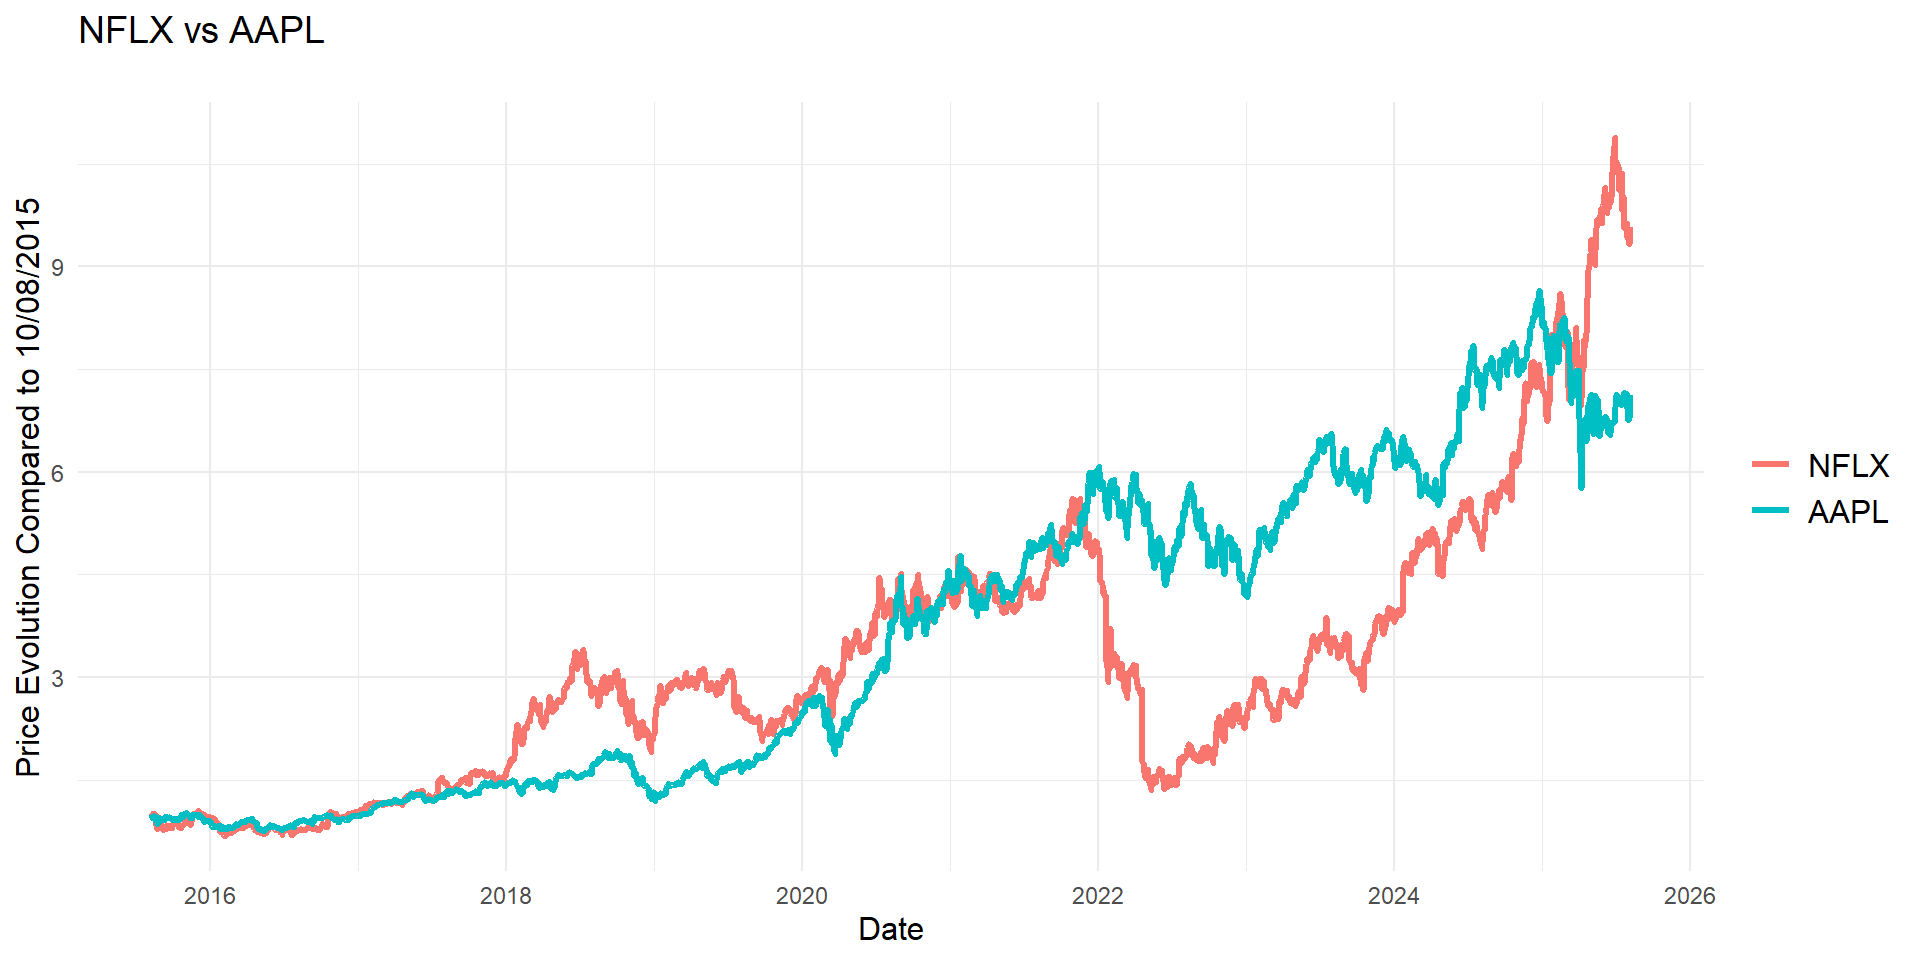
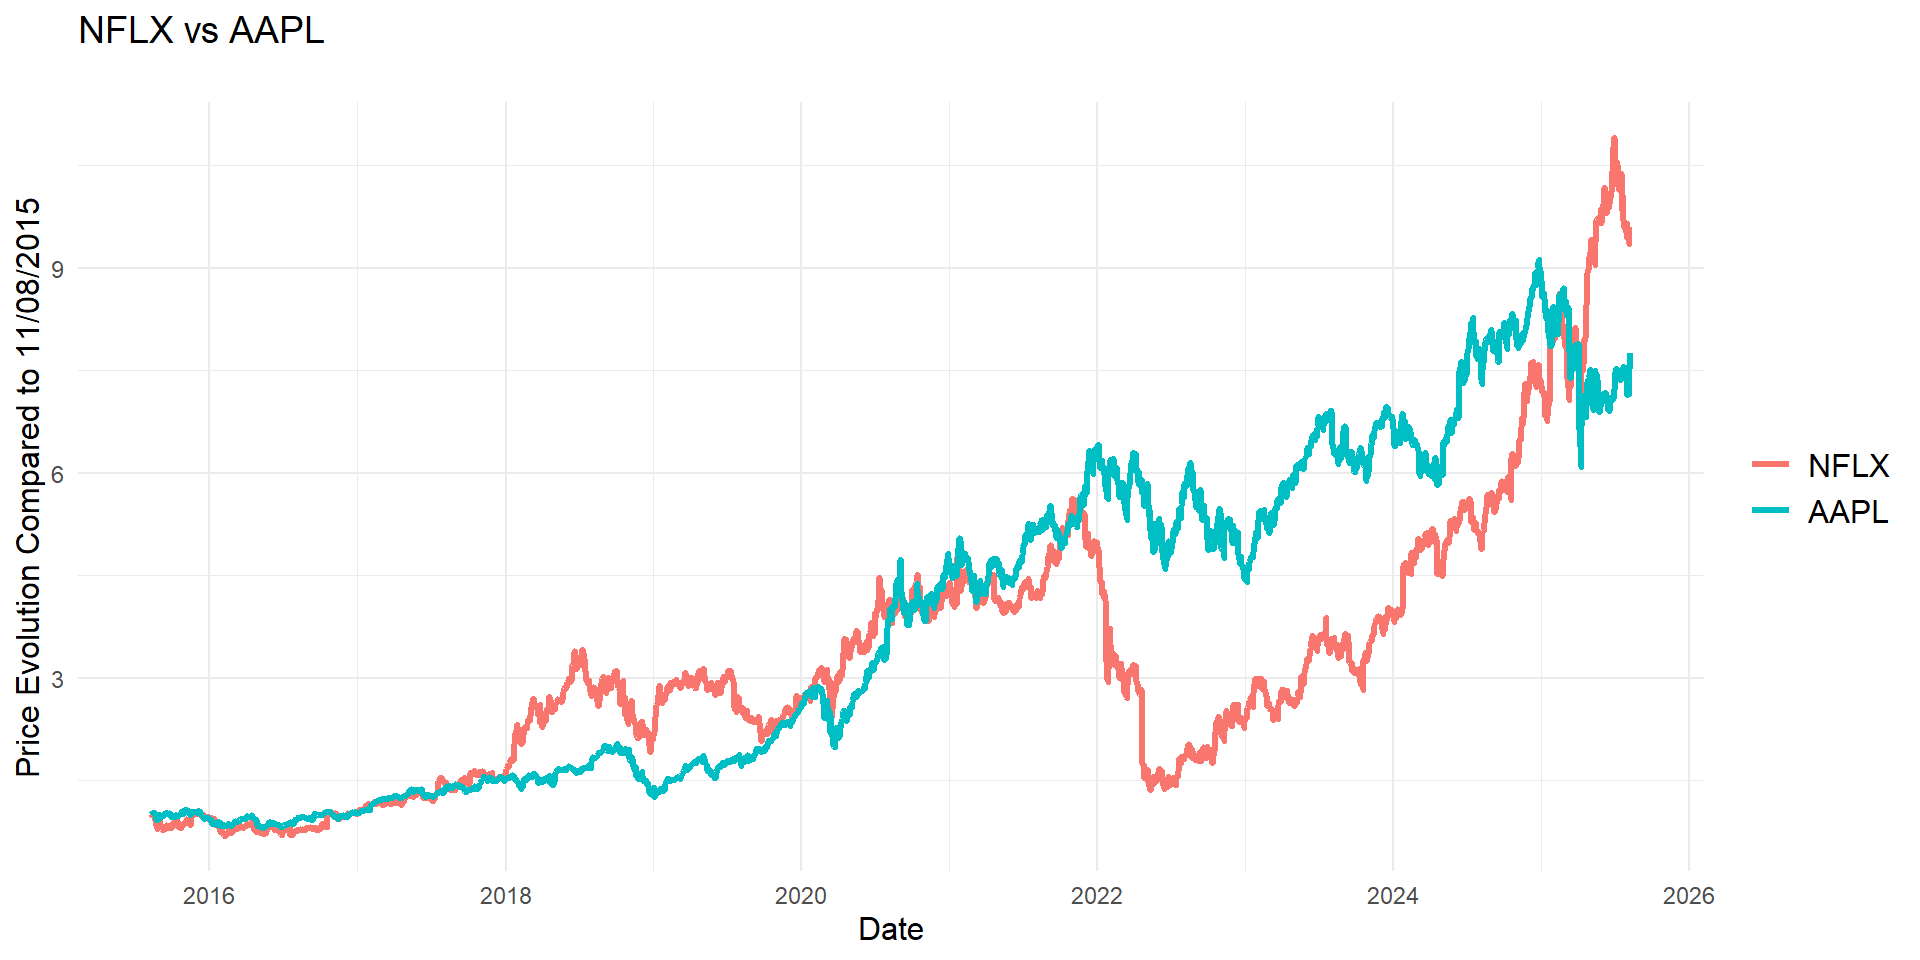
include last exercise

diff --git a/iscal/statistics1/1_intro.html b/iscal/statistics1/1_intro.html
@@ -171,7 +171,7 @@ Paulo Fagandini
 <section id="bibliography" class="slide level2">
 <h2>Bibliography</h2>
 <h3 id="topic-1">Topic 1:</h3>
-<p><span class="emoji" data-emoji="book">📖</span> A Practical Introduction to Index Numbers. 1<sup>st</sup> Ed 2015. Jeff Ralph, Rob O’Neill, Joe Winton.</p>
+<p><span class="emoji" data-emoji="book">📖</span> The making of index numbers. 1<sup>st</sup> Ed 1922. Irving Fisher. <span class="emoji" data-emoji="book">📖</span> A Practical Introduction to Index Numbers. 1<sup>st</sup> Ed 2015. Jeff Ralph, Rob O’Neill, Joe Winton.</p>
 <h3 id="topics-2-and-3">Topics 2 and 3:</h3>
 <p><span class="emoji" data-emoji="book">📖</span> Statistics for Business and Economics Global Edition. 10<sup>th</sup> Ed 2022. Paul Newbold, William Carlson, and Betty Thorne.</p>
 <p><br>
@@ -279,7 +279,7 @@ Paulo Fagandini
 </tr>
 <tr class="odd">
 <td style="text-align: right;">2025</td>
-<td style="text-align: right;">213.25</td>
+<td style="text-align: right;">220.03</td>
 </tr>
 </tbody>
 </table>
@@ -472,7 +472,7 @@ Paulo Fagandini
 <section id="motivation" class="slide level2">
 <h2>Motivation</h2>
 
-<img data-src="1_intro_files/figure-revealjs/unnamed-chunk-4-1.png" class="quarto-figure quarto-figure-center r-stretch" width="960"><p>Which stock would you have purchased in 2015-08-10?</p>
+<img data-src="1_intro_files/figure-revealjs/unnamed-chunk-4-1.png" class="quarto-figure quarto-figure-center r-stretch" width="960"><p>Which stock would you have purchased in 2015-08-11?</p>
 </section>
 <section id="motivation-1" class="slide level2">
 <h2>Motivation</h2>
@@ -521,12 +521,12 @@ Paulo Fagandini
 <section id="motivation-4" class="slide level2">
 <h2>Motivation</h2>
 
-<img data-src="1_intro_files/figure-revealjs/unnamed-chunk-5-1.png" class="quarto-figure quarto-figure-center r-stretch" width="960"><p>Now we have a much clear picture. We can compare their evolution starting in 2015-08-10.</p>
+<img data-src="1_intro_files/figure-revealjs/unnamed-chunk-5-1.png" class="quarto-figure quarto-figure-center r-stretch" width="960"><p>Now we have a much clear picture. We can compare their evolution starting in 2015-08-11.</p>
 <p>What can you read from the plot?</p>
 </section>
 <section id="motivation-5" class="slide level2">
 <h2>Motivation</h2>
-<p>Note that for 2015-08-10, we would have, for A and B:</p>
+<p>Note that for 2015-08-11, we would have, for A and B:</p>
 <p><span class="math display">\[1+\frac{a_t-a_t}{a_t}=1\quad\text{and}\quad 1+\frac{b_t-b_t}{b_t}=1\]</span></p>
 <p>We just built and index number!</p>
 <p>By convention though, instead of using 1 for the reference date, we will use 100 (as in 100%) for the reference day (we will put a name to this in a few moments).</p>
@@ -553,7 +553,7 @@ Paulo Fagandini
 </div>
 <p><br>
 </p>
-<p>In our previous example, the base day would have been 2015-08-10. Note that in the base period <span class="math display">\[I_0=\frac{x_0}{x_0}\times 100 = 100\]</span></p>
+<p>In our previous example, the base day would have been 2015-08-11. Note that in the base period <span class="math display">\[I_0=\frac{x_0}{x_0}\times 100 = 100\]</span></p>
 </section>
 <section id="index-numbers-1" class="slide level2">
 <h2>Index Numbers</h2>
@@ -561,8 +561,8 @@ Paulo Fagandini
 <p>Also, an Index Number can have a fixed base or a moving base.</p>
 <div class="cell">
 <div class="cell-output-display">
-<div class="grViz html-widget html-fill-item" id="htmlwidget-07e137495322c88352e5" style="width:960px;height:480px;"></div>
-<script type="application/json" data-for="htmlwidget-07e137495322c88352e5">{"x":{"diagram":"\ndigraph TimeSeriesStructure {\n  graph [layout = dot, rankdir = TB]\n\n  node [shape = box, style = filled, fillcolor = lightgray, fontname = Helvetica]\n\n  Index [label = \"Index\"]\n  UnderlyingVariable [label = \"Underlying Variable\"]\n  Base [label = \"Base\"]\n  Dimension [label = \"Dimension\"]\n\n  Simple [label = \"Simple\"]\n  Composite [label = \"Composite\"]\n\n  Fixed [label = \"Fixed\"]\n  Rolling [label = \"Rolling\"]\n\n  Chronological [label = \"Chronological\"]\n  Geographical [label = \"Geographical\"]\n\n  Index -> UnderlyingVariable\n  Index -> Base\n  Index -> Dimension\n\n  UnderlyingVariable -> Simple\n  UnderlyingVariable -> Composite\n\n  Base -> Fixed\n  Base -> Rolling\n\n  Dimension -> Chronological\n  Dimension -> Geographical\n}\n","config":{"engine":"dot","options":null}},"evals":[],"jsHooks":[]}</script>
+<div class="grViz html-widget html-fill-item" id="htmlwidget-ad89f0cf087934b1c594" style="width:960px;height:480px;"></div>
+<script type="application/json" data-for="htmlwidget-ad89f0cf087934b1c594">{"x":{"diagram":"\ndigraph TimeSeriesStructure {\n  graph [layout = dot, rankdir = TB]\n\n  node [shape = box, style = filled, fillcolor = lightgray, fontname = Helvetica]\n\n  Index [label = \"Index\"]\n  UnderlyingVariable [label = \"Underlying Variable\"]\n  Base [label = \"Base\"]\n  Dimension [label = \"Dimension\"]\n\n  Simple [label = \"Simple\"]\n  Composite [label = \"Composite\"]\n\n  Fixed [label = \"Fixed\"]\n  Rolling [label = \"Rolling\"]\n\n  Chronological [label = \"Chronological\"]\n  Geographical [label = \"Geographical\"]\n\n  Index -> UnderlyingVariable\n  Index -> Base\n  Index -> Dimension\n\n  UnderlyingVariable -> Simple\n  UnderlyingVariable -> Composite\n\n  Base -> Fixed\n  Base -> Rolling\n\n  Dimension -> Chronological\n  Dimension -> Geographical\n}\n","config":{"engine":"dot","options":null}},"evals":[],"jsHooks":[]}</script>
 </div>
 </div>
 </section>
@@ -967,6 +967,40 @@ Table&nbsp;1: Changing Base
 <blockquote>
 <p>New information? Yes! For example, without any computation we know that the price in 2025 was 30% larger than in 2020, and 5.4% larger than in 2022</p>
 </blockquote>
+</section>
+<section id="tests-for-good-simple-index-numbers" class="slide level2">
+<h2>Tests for good Simple Index Numbers</h2>
+<p>We can test the properties for Simple Index Numbers. These represent desirable properties for good index numbers.</p>
+<ol type="1">
+<li class="fragment"><strong>Identity test:</strong> If the variable in the current period is the same as in the base period, the index should be 1 (or 100). Of course this implies <span class="math display">\[I_{0|0}=1\]</span>.</li>
+<li class="fragment"><strong>Proportionality test:</strong> If the variable increases by <span class="math inline">\(k\)</span>, the index should increase by <span class="math inline">\(k\)</span>. <span class="math display">\[x_t=kx_0\ \Rightarrow\ i_{t|0}=k\]</span></li>
+</ol>
+</section>
+<section id="factor-reversal" class="slide level2">
+<h2>Tests for good Simple Index Numbers</h2>
+<ol start="3" type="1">
+<li class="fragment"><strong>Time Reversal test:</strong> If you exchange the base between two periods, then the index in one base, should be the inverse of the other: <span class="math display">\[i_{t|0}=\frac{1}{i{0|t}}\ \Leftrightarrow\ i_{t|0}i_{0|t}=1\]</span></li>
+<li class="fragment"><strong>Factor Reversal test:</strong> If we have two index numbers, one for variable <span class="math inline">\(x\)</span> and another for <span class="math inline">\(y\)</span>, then if <span class="math inline">\(z=x\times y\)</span> we should have <span class="math display">\[i_{t|0}^z=i_{t|0}^x\times i_{t|0}^y\]</span></li>
+</ol>
+</section>
+<section id="tests-for-good-simple-index-numbers-1" class="slide level2">
+<h2>Tests for good Simple Index Numbers</h2>
+<ol start="5" type="1">
+<li class="fragment"><p><strong>Circularity test:</strong> The index at <span class="math inline">\(t\)</span> base <span class="math inline">\(0\)</span> should be the product of all the link index numbers up to <span class="math inline">\(t\)</span>, <span class="math display">\[i_{t|0}=i_{t|t-1}\times i_{t-1|t-2}...i_{2|1}\times i_{1|0}\]</span> This formalizes the relationship between fixed base and chain index numbers.</p></li>
+<li class="fragment"><p><strong>Homogeneity test:</strong> If the variable, for every <span class="math inline">\(t\)</span> is multiplied by a constant, the index should not be affected.</p></li>
+</ol>
+</section>
+<section id="tests-for-good-simple-index-numbers-2" class="slide level2">
+<h2>Tests for good Simple Index Numbers</h2>
+<ol start="7" type="1">
+<li class="fragment"><strong>Well-definedness:</strong> The index number must be meaningful, and as prices and quantities usually are larger than zero, index numbers must be positive. Even further, a good index number should not take the value of <span class="math inline">\(\infty\)</span>.</li>
+</ol>
+<div class="fragment">
+<p>Ask yourself, what information are you getting here?</p>
+</div>
+<div class="fragment">
+<p>A value of <span class="math inline">\(0\)</span> might also be problematic, although it is not totally meaningless. The problem arises when you want to deal with chain index numbers, where a <span class="math inline">\(0\)</span> would indeterminate the rest of the chain. Also, you could never use as a base period, a period where the variable took the value of <span class="math inline">\(0\)</span>.</p>
+</div>
 </section></section>
 <section>
 <section id="index-numbers-composite-index-numbers" class="title-slide slide level1 center">
@@ -993,8 +1027,8 @@ Table&nbsp;1: Changing Base
 <p>This is a great opportunity to introduce another classification for our index numbers:</p>
 <div class="cell">
 <div class="cell-output-display">
-<div class="grViz html-widget html-fill-item" id="htmlwidget-b18c195cc4afac432d97" style="width:960px;height:480px;"></div>
-<script type="application/json" data-for="htmlwidget-b18c195cc4afac432d97">{"x":{"diagram":"\ndigraph flowchart {\n  graph [layout = dot, rankdir = TB]\n  node [shape = box, style = filled, fillcolor = lightgray, fontname = Helvetica]\n\n  A [label = \"Index\"]\n  B [label = <Price <i>P<\/i>>]\n  C [label = <Quantity <i>Q<\/i>>]\n  D [label = <Value <i>P<\/i> <i>&times;<\/i> <i>Q<\/i>>]\n\n  A -> B\n  A -> C\n  A -> D\n}\n","config":{"engine":"dot","options":null}},"evals":[],"jsHooks":[]}</script>
+<div class="grViz html-widget html-fill-item" id="htmlwidget-f1831dd121aa616e9565" style="width:960px;height:480px;"></div>
+<script type="application/json" data-for="htmlwidget-f1831dd121aa616e9565">{"x":{"diagram":"\ndigraph flowchart {\n  graph [layout = dot, rankdir = TB]\n  node [shape = box, style = filled, fillcolor = lightgray, fontname = Helvetica]\n\n  A [label = \"Index\"]\n  B [label = <Price <i>P<\/i>>]\n  C [label = <Quantity <i>Q<\/i>>]\n  D [label = <Value <i>P<\/i> <i>&times;<\/i> <i>Q<\/i>>]\n\n  A -> B\n  A -> C\n  A -> D\n}\n","config":{"engine":"dot","options":null}},"evals":[],"jsHooks":[]}</script>
 </div>
 </div>
 </section>
@@ -1517,6 +1551,160 @@ CPI<sub>link</sub>
 </div>
 <div class="fragment">
 <p><span class="math display">\[1.0103-1=\delta_w \quad \Rightarrow \quad \delta_w=0.0103= 1.03\%\]</span></p>
+</div>
+</section>
+<section id="summarizing" class="slide level2">
+<h2>Summarizing</h2>
+<p>Remember this relationship we saw before? <span class="math display">\[I^q_{t|b}=\frac{I^v_{t|b}}{I^p_{t|b}}\]</span></p>
+<p><strong>Real</strong> equals <strong>nominal</strong> over <strong>CPI</strong>.</p>
+<p>This, dividing by CPI a nominal quantity, is known as <em>to deflate</em> by the CPI.</p>
+</section>
+<section id="about-the-test-for-factor-reversal-for-composite-index-numbers" class="slide level2">
+<h2>About the Test for Factor Reversal for Composite Index Numbers</h2>
+<p>Note that neither Laspeyres nor Paasche pass the test for <strong>factor reversal</strong> (<a href="#factor-reversal">see here</a>), <span class="math display">\[VI_{t|0}\neq LPI_{t|0}\times LQI_{t|0}\quad\quad VI_{t|0}\neq PPI_{t|0}\times PQI_{t|0}\]</span></p>
+<p>But we can verify that: <span class="math display">\[LPI_{t|0}\times PQI_{t|0}=IV_{t|0} \quad \quad PPI_{t|0}\times LQI_{t|0}=IV_{t|0}\]</span></p>
+</section>
+<section id="about-the-test-for-factor-reversal-for-composite-index-numbers-1" class="slide level2">
+<h2>About the Test for Factor Reversal for Composite Index Numbers</h2>
+<p>(… continuation)</p>
+<p>Example (do the rest as homework): <span class="math display">\[LPI_{t|0}\times PQI_{t|0}=\frac{\sum_{k=1}^m p_t^kq_0^k}{\sum_{k=1}^m p_0^kq_0^k}\frac{\sum_{k=1}^m p_t^kq_t^k}{\sum_{k=1}^m p_t^kq_0^k}=\frac{\sum_{k=1}^m p_t^kq_t^k}{\sum_{k=1}^m p_0^kq_0^k}\]</span></p>
+<p>Note that this last item is exactly <span class="math inline">\(IV_{t|0}\)</span>.</p>
+<div class="fragment">
+<p>You can verify, using the same procedure, that Fisher’s index does indeed passess the factor reversal test.</p>
+</div>
+</section>
+<section id="about-the-factor-reversal-test-for-composite-index-numbers" class="slide level2">
+<h2>About the Factor Reversal Test for Composite Index Numbers</h2>
+<p><span class="math display">\[FPI_{t|0}\times FQI_{t|0}=\]</span> <span class="math display">\[\sqrt{LPI_{t|0}\times PPI_{t|0}}\times\sqrt{LQI_{t|0}\times PQI_{t|0}}\]</span> <span class="math display">\[\sqrt{LPI_{t|0}\times PPI_{t|0}\times LQI_{t|0}\times PQI_{t|0}}\]</span> <span class="math display">\[\sqrt{LPI_{t|0}\times PQI_{t|0}\times LQI_{t|0}\times PPI_{t|0}}\]</span> <span class="math display">\[\sqrt{IV_{t|0}\times IV_{t|0}}=\sqrt{IV_{t|0}^2}\]</span> <span class="math display">\[IV_{t|0}\]</span></p>
+</section>
+<section id="about-the-time-reversal-test-for-composite-index-numbers" class="slide level2">
+<h2>About the Time Reversal Test for Composite Index Numbers</h2>
+<p>Laspeyres and Paasche do not pass the time Reversal test, let’s see an example:</p>
+<p><span class="math display">\[LPI_{t|0}\times LPI_{0|t} = \frac{\sum_{k=1}^m p_t^k q_0^k}{\sum_{k=1}^m p_0^k q_0^k}\frac{\sum_{k=1}^m p_0^k q_t^k}{\sum_{k=1}^m p_t^k q_t^k}\neq 1\]</span></p>
+<p>You can do the same for Paasche, and for the quantities index numbers.</p>
+</section>
+<section id="about-the-time-reversal-test-for-composite-index-numbers-1" class="slide level2" data-transition="none">
+<h2>About the Time Reversal Test for Composite Index Numbers</h2>
+<p>Fisher on the other hand…</p>
+<p><span class="math display">\[FPI_{t|0}\times FPI_{0|t}=\sqrt{LPI_{t|0}PPI_{t|0}}\sqrt{LPI_{0|t}PPI_{0|t}}\]</span></p>
+<div class="fragment">
+<p><span class="math display">\[=\sqrt{\frac{\sum_{k=1}^m p_t^k q_0^k}{\sum_{k=1}^m p_0^k q_0^k}\frac{\sum_{k=1}^m p_t^k q_t^k}{\sum_{k=1}^m p_0^k q_t^k}}\sqrt{\frac{\sum_{k=1}^m p_0^k q_t^k}{\sum_{k=1}^m p_t^k q_t^k}\frac{\sum_{k=1}^m p_0^k q_0^k}{\sum_{k=1}^m p_t^k q_0^k}}\]</span></p>
+</div>
+<div class="fragment">
+<p><span class="math display">\[=\sqrt{\frac{\sum_{k=1}^m p_t^k q_0^k}{\sum_{k=1}^m p_0^k q_0^k}\frac{\sum_{k=1}^m p_t^k q_t^k}{\sum_{k=1}^m p_0^k q_t^k}\frac{\sum_{k=1}^m p_0^k q_t^k}{\sum_{k=1}^m p_t^k q_t^k}\frac{\sum_{k=1}^m p_0^k q_0^k}{\sum_{k=1}^m p_t^k q_0^k}}\]</span></p>
+</div>
+</section>
+<section id="about-the-time-reversal-test-for-composite-index-numbers-2" class="slide level2" data-transition="none">
+<h2>About the Time Reversal Test for Composite Index Numbers</h2>
+<p>Fisher on the other hand…</p>
+<p><span class="math display">\[FPI_{t|0}\times FPI_{0|t}=\sqrt{LPI_{t|0}PPI_{t|0}}\sqrt{LPI_{0|t}PPI_{0|t}}\]</span></p>
+<p><span class="math display">\[=\sqrt{\frac{\sum_{k=1}^m p_t^k q_0^k}{\sum_{k=1}^m p_0^k q_0^k}\frac{\sum_{k=1}^m p_t^k q_t^k}{\sum_{k=1}^m p_0^k q_t^k}}\sqrt{\frac{\sum_{k=1}^m p_0^k q_t^k}{\sum_{k=1}^m p_t^k q_t^k}\frac{\sum_{k=1}^m p_0^k q_0^k}{\sum_{k=1}^m p_t^k q_0^k}}\]</span></p>
+<p><span class="math display">\[=\sqrt{\frac{\color{red}{\sum_{k=1}^m p_t^k q_0^k}}{\color{blue}{\sum_{k=1}^m p_0^k q_0^k}}\frac{\color{green}{\sum_{k=1}^m p_t^k q_t^k}}{\sum_{k=1}^m p_0^k q_t^k}\frac{\sum_{k=1}^m p_0^k q_t^k}{\color{green}{\sum_{k=1}^m p_t^k q_t^k}}\frac{\color{blue}{\sum_{k=1}^m p_0^k q_0^k}}{\color{red}{\sum_{k=1}^m p_t^k q_0^k}}}\]</span></p>
+<div class="fragment">
+<p><span class="math display">\[FPI_{t|0}\times FPI_{0|t}=1\]</span></p>
+</div>
+</section>
+<section id="about-the-circularity-test-for-composite-index-numbers" class="slide level2">
+<h2>About the Circularity Test for Composite Index Numbers</h2>
+<p>None, not even Fisher’s Index pass the circularity test.</p>
+<blockquote>
+<p>Homework: Verify it.</p>
+</blockquote>
+</section>
+<section id="example-13" class="slide level2">
+<h2>Example</h2>
+<table>
+<tbody><tr>
+<th>
+</th>
+<th colspan="2">
+Year 1
+</th>
+<th colspan="2">
+Year 2
+</th>
+</tr>
+<tr>
+<td>
+Public Transportation
+</td>
+<td>
+N Trips
+</td>
+<td>
+Ticket price
+</td>
+<td>
+N Trips
+</td>
+<td>
+Price Index (base = Year 1)
+</td>
+</tr>
+<tr>
+<td>
+Bus
+</td>
+<td>
+1,763,521
+</td>
+<td>
+1.15
+</td>
+<td>
+1,875,345
+</td>
+<td>
+108.7
+</td>
+</tr>
+<tr>
+<td>
+Metro
+</td>
+<td>
+3,148,350
+</td>
+<td>
+1.2
+</td>
+<td>
+3,396,138
+</td>
+<td>
+112.5
+</td>
+</tr>
+</tbody></table>
+</section>
+<section id="example-14" class="slide level2">
+<h2>Example</h2>
+<ol type="1">
+<li class="fragment">According to LPI for year 2, prices for public transportantion grew 11.17%.</li>
+<li class="fragment">Real change, according to Paasche, for public transportation was 7.35%.</li>
+<li class="fragment">The composite index for change in expenditures with public transportation in year 2 compared the expenditure in year 1 is what type of change? (real, nominal, quantity, prices?) How much was it?</li>
+</ol>
+</section>
+<section id="example-15" class="slide level2">
+<h2>Example</h2>
+<p>According to LPI for year 2, prices for public transportantion grew 11.17%.</p>
+<div class="fragment">
+<p>First, we need to find <span class="math inline">\(p_2\)</span> for bus and metro.</p>
+</div>
+<div class="fragment">
+<p><span class="math display">\[108.7=\frac{p_2^{bus}}{1.15}\times 100\]</span></p>
+</div>
+<div class="fragment">
+<p>Or <span class="math inline">\(p_2^{bus}=1.25\)</span></p>
+<p><span class="math display">\[112.5=\frac{p_2^{metro}}{1.2}\]</span></p>
+<p>Or <span class="math inline">\(p_2^{metro}=1.35\)</span></p>
+</div>
+</section>
+<section id="example-16" class="slide level2">
+<h2>Example</h2>
+<p><span class="math display">\[IPL_{2|1}=\frac{\sum_{k=1}^m p_2^k q_1^k}{\sum_{k=1}^m p_0^k q_0^k}\]</span></p>
+<div class="fragment">
+<p><span class="math display">\[IPL_{2|1}=\frac{1,763,521\times 1.25 + 3,148,350 \times 1.35}{1,763,521\times 1.15 + 3,148,350 \times 1.2}=1.1117\]</span></p>
 
 
 </div>
